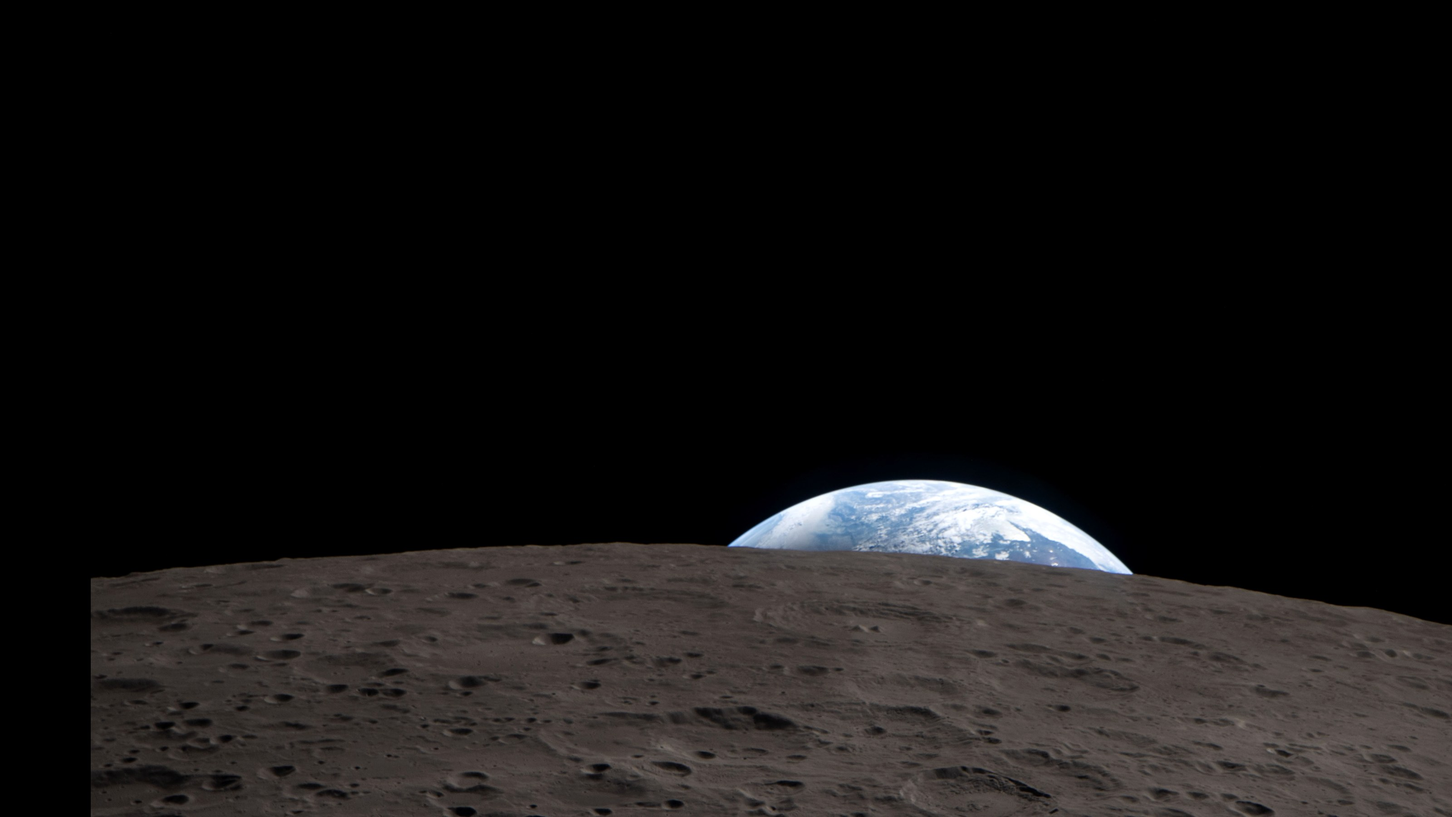
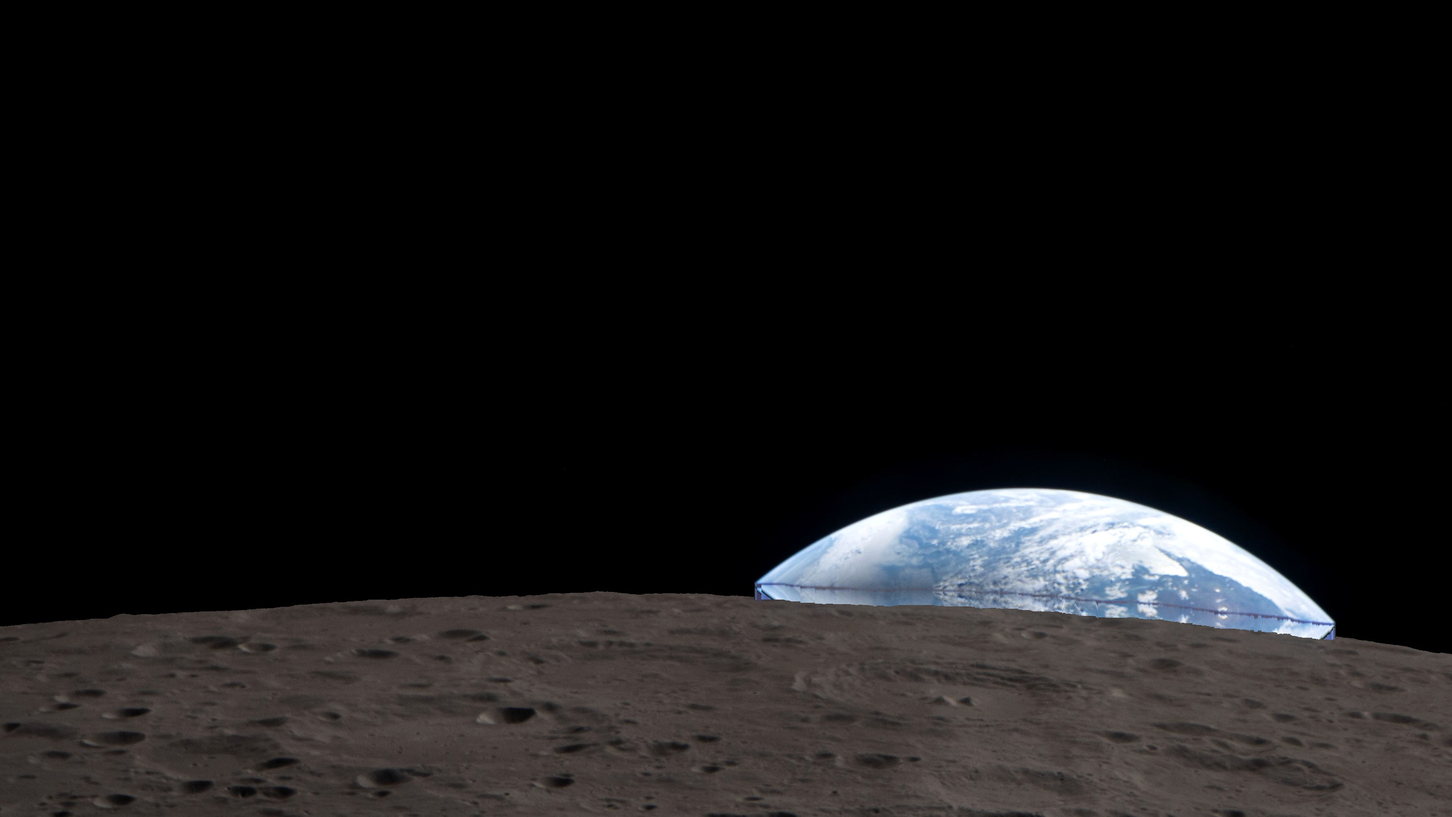
Danke-Folie vave: Erde steht, nur der Mond dreht sich
Das Mondmotiv ist jetzt in zwei Ebenen geteilt. Hinten liegen das All
und die Erde, davor der Mond als eigene Scheibe mit durchsichtigem
Himmel. Die Kamera zoomt und wandert mit beiden Ebenen gemeinsam, drehen
tut sich nur der Mond um seine Mitte. Weil sich der Mondrand auf sich
selbst dreht, bleibt die Erde genau dort angeschnitten, wo sie ist; die
Kraterlandschaft zieht unter ihr durch.

- tools/scene-photo.js: Option split erzeugt die Scheibenebene als WebP
  mit Alpha (links, rechts und unten größer als das Bild), trennt
  Oberfläche und Hintergrund nach Farbe und füllt den verdeckten Streifen
  unter dem Rand mit Himmel bzw. der Fortsetzung der Erde
- render-scene.mjs schreibt zusätzlich assets/scene-<name>-disc.webp
- motion.js: img.motion-disc dreht allein, die Kamera nur Zoom und Drift
- Mondausschnitt größer (Erde größer), keine Lücke mehr am linken Rand
- media.js blendet die Ebene in der Medienauswahl aus
- Smoke-Test misst die Scheibenebene und prüft, dass die Kamera nicht
  dreht und keine Bildecke frei wird (85 Prüfungen grün)

Claude-Session: https://claude.ai/code/session_017iqtmLc9Syr3MVfGX69Buf

diff --git a/motion.js b/motion.js
@@ -1,8 +1,8 @@
 /* Shared controls are available before the DOMContentLoaded editor hooks run. Defaults are deliberately lively but calm: a Ken Burns drift you notice within a few seconds, soft light spots and dust that just register, grain, and a slow light sweep (shine) across the motif. */
 window.VibeMotionSettings={
- tuned:{network:{movement:72,rotation:60,dof:32,dust:36,shine:26},dawn:{movement:76,rotation:13,dof:30,dust:14,shine:40},sun:{movement:70,dof:10,dust:10,shine:14},moon:{movement:70,rotation:80,dof:8,dust:8,shine:14},earth:{movement:68,rotation:75,dof:8,dust:6,shine:12},nightearth:{movement:70,rotation:80,dof:10,dust:10,shine:12},vault:{movement:64,rotation:85,dof:16,dust:34,shine:26},dial:{movement:64,rotation:85,dof:16,dust:16,shine:32},astrolabe:{movement:64,rotation:85,dof:16,dust:18,shine:34},sunflower:{movement:68,rotation:75,dof:22,dust:16,shine:30},manhole:{movement:66,rotation:80,dof:10,dust:10,texture:8,shine:20},blueprint:{rotation:50,waves:62,shine:30},plan:{movement:66,rotation:55,dof:14,dust:10,texture:16,shine:30},light:{movement:70,rotation:60,dof:38,dust:32,shine:44},fan:{movement:68,rotation:60,dof:20,dust:14,shine:34},track:{movement:66,rotation:65,dof:16,dust:12,shine:30},record:{movement:66,rotation:80,dof:18,dust:12,shine:42},lens:{movement:64,rotation:50,dof:26,dust:12,shine:40},arch:{movement:68,rotation:45,dof:36,dust:26,shine:44}},
+ tuned:{network:{movement:72,rotation:60,dof:32,dust:36,shine:26},dawn:{movement:76,rotation:13,dof:30,dust:14,shine:40},sun:{movement:70,dof:10,dust:10,shine:14},moon:{movement:60,rotation:90,dof:8,dust:8,shine:14},earth:{movement:68,rotation:75,dof:8,dust:6,shine:12},nightearth:{movement:70,rotation:80,dof:10,dust:10,shine:12},vault:{movement:64,rotation:85,dof:16,dust:34,shine:26},dial:{movement:64,rotation:85,dof:16,dust:16,shine:32},astrolabe:{movement:64,rotation:85,dof:16,dust:18,shine:34},sunflower:{movement:68,rotation:75,dof:22,dust:16,shine:30},manhole:{movement:66,rotation:80,dof:10,dust:10,texture:8,shine:20},blueprint:{rotation:50,waves:62,shine:30},plan:{movement:66,rotation:55,dof:14,dust:10,texture:16,shine:30},light:{movement:70,rotation:60,dof:38,dust:32,shine:44},fan:{movement:68,rotation:60,dof:20,dust:14,shine:34},track:{movement:66,rotation:65,dof:16,dust:12,shine:30},record:{movement:66,rotation:80,dof:18,dust:12,shine:42},lens:{movement:64,rotation:50,dof:26,dust:12,shine:40},arch:{movement:68,rotation:45,dof:36,dust:26,shine:44}},
  /* Centre and radius of each motif's disc or arc in frame percent (x, y) and pixels (radius), optionally the height the zoom is anchored at (percent, default 50): the camera turns the picture around this centre, so the disc itself visibly rotates. The sunrise zooms around the horizon so the hills stay in view. */
- pivots:{paper:[50,241.7,1602],wood:[50,237.1,1564],orbit:[50,238.9,1565],landscape:[50,179.9,1021],blueprint:[50,188.9,1100],dawn:[50,88.9,275,72],sun:[50,168.89,900],moon:[43.75,570.82,4537],earth:[36.25,120,560],nightearth:[52.5,469.19,3663],dial:[50,120,560],astrolabe:[50,124.44,600],sunflower:[50,155.56,760],manhole:[50,126.67,620],network:[50,173.3,960],light:[50,175.6,980],plan:[56.25,148.89,700],fan:[50,130,600],track:[50,160.6,840],vault:[50,113.33,500],record:[50,144.4,735],lens:[50,131.1,600],arch:[50,124.44,550]},
+ pivots:{paper:[50,241.7,1602],wood:[50,237.1,1564],orbit:[50,238.9,1565],landscape:[50,179.9,1021],blueprint:[50,188.9,1100],dawn:[50,88.9,275,72],sun:[50,168.89,900],moon:[42.94,791.33,6482],earth:[36.25,120,560],nightearth:[52.5,469.19,3663],dial:[50,120,560],astrolabe:[50,124.44,600],sunflower:[50,155.56,760],manhole:[50,126.67,620],network:[50,173.3,960],light:[50,175.6,980],plan:[56.25,148.89,700],fan:[50,130,600],track:[50,160.6,840],vault:[50,113.33,500],record:[50,144.4,735],lens:[50,131.1,600],arch:[50,124.44,550]},
  pivot(node){const scene=node?.dataset.scene||node?.className||'';for(const [key,value] of Object.entries(this.pivots))if(scene.split(/\s+/).includes(key))return value;return [50,50,1800]},
  defaults(node){const scene=node?.dataset.scene||node?.className||'';const base={motion:!!node?.querySelector('.motion-layer img'),cycle:18,strength:95,movement:80,rotation:70,speed:1,waves:0,dof:24,dust:18,texture:12,vividness:16,jiggle:0,shine:34};for(const [key,values] of Object.entries(this.tuned))if(scene.split(/\s+/).includes(key))Object.assign(base,values);return base},
  normalize(value){const c={...this.defaults(null),...value};for(const k of ['strength','movement','rotation','waves','dof','dust','texture','vividness','jiggle','shine'])c[k]=Math.max(0,Math.min(100,Number(c[k])||0));c.speed=Math.max(.25,Math.min(2,Number(c.speed)||1));c.cycle=Math.max(10,Math.min(180,Number(c.cycle)||18));return c},
@@ -22,17 +22,20 @@ window.addEventListener('DOMContentLoaded',()=>{
  function animate(record,el,frames,seconds,phase=0){const a=el.animate(frames,{duration:seconds*1000/record.cfg.speed,iterations:Infinity,direction:'alternate',easing:'ease-in-out',fill:'both'});a.pause();a.currentTime=record.time*1000/record.cfg.speed+phase;record.animations.push(a);return a}
  /* The media, its colour filter and the grain live inside one animated wrapper (.motion-camera). They rasterise together into a single compositor layer, so neither the saturate() filter nor the soft-light grain needs a render surface or a backdrop copy per frame; only the wrapper's transform runs on the compositor. */
  const MEDIA=':scope>img,:scope>video,:scope>.motion-camera>img,:scope>.motion-camera>video';
- function stage(record){let camera=record.layer.querySelector(':scope>.motion-camera');if(!camera){camera=document.createElement('div');camera.className='motion-camera';camera.dataset.motionCamera='';record.media.replaceWith(camera);camera.append(record.media)}return camera}
+ function stage(record){let camera=record.layer.querySelector(':scope>.motion-camera');if(!camera){camera=document.createElement('div');camera.className='motion-camera';camera.dataset.motionCamera='';record.media.replaceWith(camera);camera.append(record.media)}const disc=record.layer.querySelector(':scope>.motion-disc');if(disc)record.media.after(disc);return camera}
  function unstage(record){const camera=record.layer.querySelector(':scope>.motion-camera');if(camera)camera.replaceWith(...camera.childNodes)}
- function colour(record){const c=record.cfg,saturation=1+c.vividness/100*record.amount*.28,filter=saturation>1.005?`saturate(${saturation.toFixed(3)})`:'';record.media.style.filter=filter;if(record.wave)record.wave.canvas.style.filter=filter}
+ function colour(record){const c=record.cfg,saturation=1+c.vividness/100*record.amount*.28,filter=saturation>1.005?`saturate(${saturation.toFixed(3)})`:'';record.media.style.filter=filter;const disc=record.layer.querySelector('.motion-disc');if(disc)disc.style.filter=filter;if(record.wave)record.wave.canvas.style.filter=filter}
  /* Smallest scale that keeps the 1600 × 900 frame covered when the picture is turned by a degrees around (px, py), then scaled around (800, oy) and shifted by (tx, ty). */
  function cover(a,px,py,tx,ty,oy){const rad=-a*Math.PI/180,cs=Math.cos(rad),sn=Math.sin(rad),corners=[[0,0],[1600,0],[0,900],[1600,900]],ok=k=>corners.every(([qx,qy])=>{const ux=(qx-800-tx)/k+800-px,uy=(qy-oy-ty)/k+oy-py,x=px+ux*cs-uy*sn,y=py+ux*sn+uy*cs;return x>=-.5&&x<=1600.5&&y>=-.5&&y<=900.5});let lo=1,hi=2;if(ok(lo))return lo;for(let n=0;n<26;n++){const mid=(lo+hi)/2;if(ok(mid))hi=mid;else lo=mid}return hi}
- /* The camera turns the picture around the centre of its disc (VibeMotionSettings.pivots), so plate, wood slice, vault door, dial or planet visibly rotate; rotation sets how far the rim travels (up to 80 px, at most 6°; very large discs such as planet limbs still turn at least 1.5°), movement adds a gentle drift and zoom. Uploaded backgrounds turn around the frame centre. The zoom is recomputed for both end positions so no picture edge ever shows. */
+ /* The camera turns the picture around the centre of its disc (VibeMotionSettings.pivots), so plate, wood slice, vault door, dial or planet visibly rotate; rotation sets how far the rim travels (up to 80 px, at most 6°; very large discs such as planet limbs still turn at least 1.5°), movement adds a gentle drift and zoom. Uploaded backgrounds turn around the frame centre. The zoom is recomputed for both end positions so no picture edge ever shows.
+    Scenes with a separate disc layer (img.motion-disc, e.g. the moon in front of the Earth) keep the background still: the camera only drifts and zooms both layers together, and the disc alone turns around its centre. The disc image reaches beyond the frame (see .motion-disc in style.css), so its edges never show while it turns. */
  function camera(record,el,index){const c=record.cfg,m=c.movement/100*record.amount,r=c.rotation/100*record.amount,j=c.jiggle/100*record.amount,sign=index%2?-1:1,[pxp,pyp,radius,oyp=50]=VibeMotionSettings.pivot(record.layer.classList.contains('studio-background')?null:record.layer.closest('section')),px=pxp/100*1600,py=pyp/100*900,oy=oyp/100*900;
   el.style.transformOrigin='0 0';
   const deg=Math.min(6,Math.max(1.5*r,r*80/radius*180/Math.PI)),tx=18*m,ty=5*m,T=(x,y,k,a)=>`translate(${(800+x).toFixed(2)}px,${(oy+y).toFixed(2)}px) scale(${k.toFixed(4)}) translate(-800px,${(-oy).toFixed(1)}px) translate(${px.toFixed(1)}px,${py.toFixed(1)}px) rotate(${a.toFixed(3)}deg) translate(${(-px).toFixed(1)}px,${(-py).toFixed(1)}px)`;
-  const a0=-deg*sign,a1=deg*sign,x0=-tx*sign,x1=tx*sign,moving=m||r||j,k0=moving?cover(a0,px,py,x0,ty,oy)+.012+.03*j:1,k1=moving?Math.max(cover(a1,px,py,x1,-ty,oy)+.012+.03*j,k0+.08*m):1;
-  animate(record,el,[{transform:T(x0,ty,k0,a0)},{transform:T(x1,-ty,k1,a1)}],c.cycle/2)
+  const disc=el.querySelector(':scope>.motion-disc'),a0=-deg*sign,a1=deg*sign,b0=disc?0:a0,b1=disc?0:a1,x0=-tx*sign,x1=tx*sign,moving=m||r||j,k0=moving?cover(b0,px,py,x0,ty,oy)+.012+.03*j:1,k1=moving?Math.max(cover(b1,px,py,x1,-ty,oy)+.012+.03*j,k0+.08*m):1;
+  animate(record,el,[{transform:T(x0,ty,k0,b0)},{transform:T(x1,-ty,k1,b1)}],c.cycle/2);
+  /* Lage der Ebene aus dem CSS lesen: ausgeblendete Folien haben noch kein Layout, offsetLeft wäre dort 0 */
+  if(disc){const box=getComputedStyle(disc);disc.style.transformOrigin=`${(px-(parseFloat(box.left)||0)).toFixed(1)}px ${(py-(parseFloat(box.top)||0)).toFixed(1)}px`;animate(record,disc,[{transform:`rotate(${a0.toFixed(3)}deg)`},{transform:`rotate(${a1.toFixed(3)}deg)`}],c.cycle/2)}
  }
  function waveSurface(record){const c=record.cfg;if(record.wave||!c.waves||!record.amount)return;const canvas=document.createElement('canvas');canvas.className='motion-wave';canvas.dataset.motionRuntime='';canvas.width=1600;canvas.height=900;const gl=canvas.getContext('webgl',{alpha:true,antialias:false,premultipliedAlpha:false});if(!gl)return;
   const shader=(type,source)=>{const s=gl.createShader(type);gl.shaderSource(s,source);gl.compileShader(s);if(!gl.getShaderParameter(s,gl.COMPILE_STATUS))throw Error('Wave shader');return s};
@@ -50,7 +53,7 @@ window.addEventListener('DOMContentLoaded',()=>{
   /* Shine: a wide, soft band of light sweeps once per cycle diagonally across the motif (first sweep right after the slide appears), then rests off screen. */
   if(c.shine){const band=document.createElement('i'),o=Math.min(.6,c.shine/100*a*.55),off='translate3d(-160%,0,0) skewX(-16deg)',on='translate3d(330%,0,0) skewX(-16deg)';band.className='motion-shine';band.style.opacity='0';box.append(band);const frames=[{offset:0,transform:off,opacity:0},{offset:.16,transform:off,opacity:0},{offset:.3,opacity:o},{offset:.48,opacity:o},{offset:.6,transform:on,opacity:0},{offset:1,transform:on,opacity:0}],x=animate(record,band,frames,Math.max(12,c.cycle*.9));x.effect.updateTiming({direction:'normal',easing:'linear'});x.effect.setKeyframes(frames.map(f=>({...f,easing:'ease-in-out'})))}
  }
- function dispose(r){clearTimeout(leaving.get(r.layer));leaving.delete(r.layer);r.animations.forEach(a=>a.cancel());r.wave?.dispose();r.layer.querySelectorAll('[data-motion-runtime]').forEach(e=>e.remove());r.media.style.filter='';unstage(r)}
+ function dispose(r){clearTimeout(leaving.get(r.layer));leaving.delete(r.layer);r.animations.forEach(a=>a.cancel());r.wave?.dispose();r.layer.querySelectorAll('[data-motion-runtime]').forEach(e=>e.remove());r.media.style.filter='';const disc=r.layer.querySelector('.motion-disc');if(disc)disc.style.filter='';unstage(r)}
  function refresh(){const layers=[...root().querySelectorAll(':scope>section .motion-layer,:scope>section .studio-background')].filter(l=>l.style.display!=='none'&&l.querySelector(MEDIA));
   for(const[layer,r]of scenes)if(!layers.includes(layer)){dispose(r);scenes.delete(layer)}
   layers.forEach((layer,i)=>{const media=layer.querySelector(MEDIA),cfg=VibeMotionSettings.normalize({...VibeMotionSettings.defaults(layer.closest('section')),...JSON.parse(layer.dataset.motionSettings||'{}')}),key=JSON.stringify(cfg),old=scenes.get(layer);if(old?.key===key&&old.media===media)return;const time=old?.time??3;let r;if(old?.media===media){r=old;r.animations.forEach(a=>a.cancel());r.animations=[];r.layer.querySelectorAll('.motion-atmosphere,.motion-grain').forEach(e=>e.remove());r.media.style.filter='';Object.assign(r.cfg,cfg);r.key=key;r.amount=cfg.motion?cfg.strength/100:0;if(r.wave&&(!cfg.waves||!r.amount)){r.wave.dispose();r.wave.canvas.remove();r.wave=null}}else{old&&dispose(old);r={layer,media,cfg,key,time,amount:cfg.motion?cfg.strength/100:0,animations:[]}}scenes.set(layer,r);if(r.amount){camera(r,stage(r),i);waveSurface(r);colour(r);atmosphere(r);if(cfg.jiggle){const j=cfg.jiggle/100*r.amount,frames=Array.from({length:41},(_,n)=>{const t=n/40*Math.PI*2,x=Math.sin(t*3)*.64+Math.sin(t*7+.7)*.23+Math.sin(t*11)*.13,y=Math.cos(t*2+.4)*.68+Math.sin(t*5)*.32,angle=Math.sin(t*4+.5)*.65+Math.sin(t*9)*.35;return{transform:`translate3d(${x*j*17}px,${y*j*11}px,0) rotate(${angle*j*.7}deg) scale(${1+.035*j})`}});const a=animate(r,layer,frames,24);a.effect.updateTiming({direction:'normal',easing:'linear'});a.effect.setKeyframes(frames.map(f=>({...f,easing:'ease-in-out'})))}}

diff --git a/tools/scene-photo.js b/tools/scene-photo.js
@@ -12,7 +12,13 @@
    squash  Entzerrung schräg fotografierter Scheiben {x,y}: Faktoren entlang der Vorlagenachsen, damit die Ellipse wieder ein Kreis wird (circle.r ist dann der Radius entlang x)
    shadow  weicher Schatten unter einer freigestellten Scheibe {alpha, blur, dy, size}
    before/after  eigene Zeichenschritte vor bzw. nach dem Foto: (ctx, {C,R,u,W,H})
-   Ausgabe: window.sceneDataURL und window.scenePivot = [x %, y %, Radius] für motion.js (VibeMotionSettings.pivots). */
+   split   die Scheibe als eigene Ebene, die sich allein dreht (z. B. der Mond vor der stehenden Erde) {margin, bottom, band, search, behind}:
+           Ebene mit durchsichtigem Himmel, links, rechts und unten um margin/bottom Folienpixel größer als das Bild, damit beim Drehen
+           keine Kante sichtbar wird; als Oberfläche zählt, was weder dunkel (Himmel) noch bläulich oder sehr hell ist (Erde, Wolken).
+           Im Hintergrund wird ein Band von band Folienpixeln unter dem Scheibenrand mit Himmel gefüllt, innerhalb des Kreises behind
+           {x,y,r} (Folienpixel, etwa die Erde) mit deren Fortsetzung, damit die drehende Scheibe nirgends Stehendes freilegt
+   Ausgabe: window.sceneDataURL und window.scenePivot = [x %, y %, Radius] für motion.js (VibeMotionSettings.pivots),
+            mit split zusätzlich window.sceneLayerDataURL (WebP mit Alpha) und window.sceneLayer (Lage der Ebene in Folienpixeln). */
 (async()=>{
  const P=window.PHOTO,params=new URLSearchParams(location.search),scale=+params.get('scale')||2,quality=+params.get('q')||.88,seed=+params.get('seed')||7;
  const W=1600*scale,H=900*scale,u=scale,canvas=document.getElementById('c');canvas.width=W;canvas.height=H;const ctx=canvas.getContext('2d');
@@ -23,19 +29,38 @@
  if(P.stars){let a=seed>>>0;const rnd=()=>{a|=0;a=a+0x6D2B79F5|0;let t=Math.imul(a^a>>>15,1|a);t=t+Math.imul(t^t>>>7,61|t)^t;return((t^t>>>14)>>>0)/4294967296};for(let i=0;i<P.stars;i++){const x=rnd()*W,y=rnd()*H,r=(rnd()<.92?.4+rnd()*.5:.9+rnd()*.6)*u,b=(rnd()<.88?.12+rnd()*.22:.4+rnd()*.35)*(P.starGain||1);ctx.fillStyle=`rgba(${230+rnd()*25|0},${230+rnd()*25|0},255,${b})`;ctx.beginPath();ctx.arc(x,y,r,0,Math.PI*2);ctx.fill()}}
  if(P.before)P.before(ctx,{C,R,u,W,H});
  if(P.shadow){const sh=P.shadow;ctx.save();ctx.filter=`blur(${(sh.blur||30)*u}px)`;ctx.fillStyle=`rgba(0,0,0,${sh.alpha??.5})`;ctx.beginPath();ctx.arc(C.x*u,(C.y+(sh.dy||0))*u,R*(sh.size||1)*u,0,Math.PI*2);ctx.fill();ctx.restore()}
- ctx.save();if(P.clip){ctx.beginPath();ctx.arc(C.x*u,C.y*u,R*P.clip*u,0,Math.PI*2);ctx.clip()}
- ctx.translate(C.x*u,C.y*u);ctx.rotate((P.turn||0)*Math.PI/180);ctx.scale(P.scale*u*(P.squash?.x||1),P.scale*u*(P.squash?.y||1));if(P.grade)ctx.filter=P.grade;
  /* weicher Rand der Vorlage, damit ergänzter Himmel und Foto ohne Kante ineinander übergehen */
  const feather=P.feather||0;let source=img;if(feather||P.levels){const off=document.createElement('canvas');off.width=img.naturalWidth;off.height=img.naturalHeight;const o=off.getContext('2d');o.drawImage(img,0,0);
   if(P.levels){const {black:b,white:w,gamma=1}=P.levels,lut=[0,1,2].map(ch=>Uint8ClampedArray.from({length:256},(_,v)=>255*Math.pow(Math.min(1,Math.max(0,(v-b[ch])/(w[ch]-b[ch]))),1/gamma))),id=o.getImageData(0,0,off.width,off.height),d=id.data;for(let k=0;k<d.length;k+=4){d[k]=lut[0][d[k]];d[k+1]=lut[1][d[k+1]];d[k+2]=lut[2][d[k+2]]}o.putImageData(id,0,0)}
   /* destination-out nimmt nur dort Deckkraft weg, wo gezeichnet wird: Streifen an den vier Kanten, außen voll, nach innen auslaufend */
   if(feather){o.globalCompositeOperation='destination-out';const f=feather,w=off.width,h=off.height,edge=(x0,y0,x1,y1,rx,ry,rw,rh)=>{const g=o.createLinearGradient(x0,y0,x1,y1);g.addColorStop(0,'#000');g.addColorStop(1,'rgba(0,0,0,0)');o.fillStyle=g;o.fillRect(rx,ry,rw,rh)};edge(0,0,0,f,0,0,w,f);edge(0,h,0,h-f,0,h-f,w,f);edge(0,0,f,0,0,0,f,h);edge(w,0,w-f,0,w-f,0,f,h)}
   source=off}
- ctx.drawImage(source,-P.circle.x,-P.circle.y);
- ctx.restore();
+ /* Foto an seinen Platz zeichnen; ox/oy verschieben alles, etwa für die größere Scheibenebene */
+ const paint=(g,ox=0,oy=0)=>{g.save();if(P.clip){g.beginPath();g.arc((C.x+ox)*u,(C.y+oy)*u,R*P.clip*u,0,Math.PI*2);g.clip()}g.translate((C.x+ox)*u,(C.y+oy)*u);g.rotate((P.turn||0)*Math.PI/180);g.scale(P.scale*u*(P.squash?.x||1),P.scale*u*(P.squash?.y||1));if(P.grade)g.filter=P.grade;g.drawImage(source,-P.circle.x,-P.circle.y);g.restore()};
+ paint(ctx);
  if(P.vignette){const g=ctx.createRadialGradient(C.x*u,C.y*u,R*u,C.x*u,C.y*u,R*P.vignette*u);g.addColorStop(0,'rgba(0,0,0,0)');g.addColorStop(1,P.fill||'#000');ctx.fillStyle=g;ctx.beginPath();ctx.rect(0,0,W,H);ctx.arc(C.x*u,C.y*u,R*u,0,Math.PI*2,true);ctx.fill()}
  if(P.after)P.after(ctx,{C,R,u,W,H});
  if(P.grain){let a=(seed*7919)>>>0;const rnd=()=>{a|=0;a=a+0x6D2B79F5|0;let t=Math.imul(a^a>>>15,1|a);t=t+Math.imul(t^t>>>7,61|t)^t;return((t^t>>>14)>>>0)/4294967296},id=ctx.getImageData(0,0,W,H),d=id.data;for(let k=0;k<d.length;k+=4){const v=(rnd()-.5)*P.grain;d[k]+=v;d[k+1]+=v;d[k+2]+=v}ctx.putImageData(id,0,0)}
+ if(P.split){const sp=P.split,m=sp.margin??160,mb=sp.bottom??100,band=Math.round((sp.band??10)*u),search=sp.search??14,DW=W+2*m*u,DH=H+mb*u,layer=document.createElement('canvas');layer.width=DW;layer.height=DH;const g=layer.getContext('2d');paint(g,m,0);
+  const L=g.getImageData(0,0,DW,DH),ld=L.data,B=ctx.getImageData(0,0,W,H),bd=B.data,lum=(d,k)=>.3*d[k]+.59*d[k+1]+.11*d[k+2];
+  /* Oberfläche der Scheibe: weder Himmel (dunkel) noch Erde (blau oder sehr hell) */
+  const surface=(d,k)=>{const l=lum(d,k);return l>(sp.sky??16)&&l<(sp.bright??170)&&d[k+2]<=d[k]+(sp.blue??2)},behind=sp.behind,inside=(x,y)=>behind&&Math.hypot(x-behind.x,y-behind.y)<behind.r;
+  for(let X=0;X<DW;X++){const dx=X/u-m-C.x;let limb=DH;
+   if(Math.abs(dx)<R){const yc=C.y-Math.sqrt(R*R-dx*dx),top=Math.max(0,Math.floor((yc-search)*u)),end=Math.min(DH-3,Math.ceil((yc+search)*u));limb=Math.round(yc*u);
+    /* oberstes Pixel der Spalte, ab dem drei Pixel in Folge zur Oberfläche gehören: der tatsächliche Rand mit seinen Bergen */
+    for(let Y=top;Y<end;Y++)if(surface(ld,(Y*DW+X)*4)&&surface(ld,((Y+1)*DW+X)*4)&&surface(ld,((Y+2)*DW+X)*4)){limb=Y;break}}
+   /* Randpixel halb deckend, in der Farbe der Oberfläche direkt darunter (ohne Schimmer des Hintergrunds) */
+   /* durchsichtige Pixel bekommen ebenfalls die Oberflächenfarbe, sonst mischt die Farbunterabtastung von WebP Blau in den Rand */
+   if(limb<DH-1){const kb=((limb+1)*DW+X)*4;for(let Y=0;Y<=limb;Y++){const k=(Y*DW+X)*4;ld[k]=ld[kb];ld[k+1]=ld[kb+1];ld[k+2]=ld[kb+2];ld[k+3]=Y<limb?0:170}}else for(let Y=0;Y<DH;Y++)ld[(Y*DW+X)*4+3]=0;
+   /* Hintergrund: Band unter dem Rand mit Himmel oder der gespiegelten Erde füllen, damit die drehende Scheibe dort nichts Stehendes freilegt */
+   const Xb=X-m*u;if(Xb<0||Xb>=W||limb>=H)continue;
+   /* Farbe der Fortsetzung: gespiegelt über den Rand, sonst das nächste Pixel darüber, das sicher zum Hintergrundkörper gehört */
+   /* nur eindeutige Pixel des Hintergrundkörpers (deutlich bläulich oder hell), die gemischten Randpixel direkt über dem Rand überspringen */
+   const x=Xb/u,edge=3,clear=k=>{const l=lum(bd,k);return l>(sp.sky??16)&&(bd[k+2]>bd[k]+8||l>150)},pick=Y=>{for(const ys of [Y>=limb?2*limb-Y-2*edge:-1,...Array.from({length:30},(_,n)=>limb-edge-1-n)]){if(ys<0)continue;const ks=(ys*W+Xb)*4;if(clear(ks))return ks}return -1};
+   /* auch die gemischten Zeilen direkt über dem Rand ersetzen, sonst blitzen sie beim Drehen als feine Linie auf */
+   for(let Y=Math.max(0,limb-edge);Y<Math.min(H,limb+band);Y++){const k=(Y*W+Xb)*4,ks=inside(x,Y/u)?pick(Y):-1;bd[k]=ks<0?0:bd[ks];bd[k+1]=ks<0?0:bd[ks+1];bd[k+2]=ks<0?0:bd[ks+2]}}
+  g.putImageData(L,0,0);ctx.putImageData(B,0,0);
+  window.sceneLayerDataURL=layer.toDataURL('image/webp',sp.quality??.86);window.sceneLayer={left:-m,top:0,width:1600+2*m,height:900+mb}}
  window.scenePivot=[+(C.x/16).toFixed(2),+(C.y/9).toFixed(2),Math.round(R)];
  window.sceneDataURL=canvas.toDataURL('image/jpeg',quality);window.rendered=true;
 })();

diff --git a/media.js b/media.js
@@ -3,7 +3,7 @@ window.addEventListener('DOMContentLoaded',()=>{
  const E=DeckEditor,$=s=>document.querySelector(s),builtins=[];
  const state=()=>E.state();state().assets||=[];
  const readable={'scene-paper.jpg':'Keramik · Tellerrand','scene-wood.jpg':'Holz · Jahresringe','scene-blueprint.jpg':'Wasserringe','scene-landscape.jpg':'Pflanzenquerschnitt','scene-orbit.jpg':'Planetenkante','scene-network.jpg':'Netzknoten · Kreisbogen','scene-dawn.jpg':'Morgenlicht · Horizont','scene-sun.jpg':'Sonne · Korona','scene-moon.jpg':'Mond · Erde am Horizont','scene-earth.jpg':'Erde · Tagseite','scene-nightearth.jpg':'Erde bei Nacht','scene-vault.jpg':'Tresortür','scene-dial.jpg':'Wählscheibe','scene-astrolabe.jpg':'Astrolabium','scene-sunflower.jpg':'Sonnenblume','scene-manhole.jpg':'Kanaldeckel'};
- document.querySelectorAll('.slides>section img,.slides>section video').forEach((el,i)=>{const src=el.getAttribute('src');if(!src||builtins.some(a=>a.src===src))return;const filename=el.dataset.fileName||src.split('/').pop().split('?')[0];builtins.push({id:'builtin-'+builtins.length,name:filename.startsWith('data:')?'Motiv '+(i+1):filename,label:readable[filename]||filename,kind:el.tagName==='VIDEO'?'video':'image',src,width:el.naturalWidth||1600,height:el.naturalHeight||900,size:src.startsWith('data:')?Math.round(src.length*.75):0,builtin:true})});
+ document.querySelectorAll('.slides>section img:not(.motion-disc),.slides>section video').forEach((el,i)=>{const src=el.getAttribute('src');if(!src||builtins.some(a=>a.src===src))return;const filename=el.dataset.fileName||src.split('/').pop().split('?')[0];builtins.push({id:'builtin-'+builtins.length,name:filename.startsWith('data:')?'Motiv '+(i+1):filename,label:readable[filename]||filename,kind:el.tagName==='VIDEO'?'video':'image',src,width:el.naturalWidth||1600,height:el.naturalHeight||900,size:src.startsWith('data:')?Math.round(src.length*.75):0,builtin:true})});
  function logoSources(){return [state().logo,...Object.values(state().slideLogos||{})].filter(l=>l?.src)}
  function isLogo(a){return !!a.logo||logoSources().some(l=>l.src===a.src)}
  function all(){const list=[...builtins,...(state().assets||[])];for(const logo of logoSources()){const existing=list.find(a=>a.src===logo.src);if(existing){existing.logo=true;continue}const a={id:'asset-'+crypto.randomUUID(),name:logo.name||'Eigenes Logo.png',label:logo.name||'Eigenes Logo',kind:'image',logo:true,src:logo.src,size:Math.round(logo.src.length*.75)};state().assets.push(a);list.push(a)}return list}

diff --git a/decks/vave/slides.html b/decks/vave/slides.html
@@ -68,4 +68,4 @@
 <section class="content ink statement-slide prs-slide" data-fig-top="596" data-fig-prs="20" data-name="Diese Folien" data-duration="60000"><div class="eyebrow">09 / zum schluss</div><h2>Diese Folien sind genau so entstanden.</h2><p class="story-copy statement-sub">Ein Repo, rund zwanzig Pull Requests, ein Wochenende. Beschrieben, geprüft, freigegeben.</p>
  <div class="foot"><p class="story-copy">Was baut ihr als Erstes?</p><p class="endnote">github.com/hannespix/vibestudio</p></div><aside class="notes">1 Minute. Die Auflösung: Diese Präsentation ist selbst ein Vibecoding-Projekt. Ein Repo, rund zwanzig Pull Requests, von Freitagabend bis Sonntag: Editor im Browser, Übergänge, Animationen, die Kapitelmotive, dieser Vortrag. Alles beschrieben, geprüft, freigegeben, jede Änderung nachvollziehbar. Wer mag, öffnet das Repo und liest die Historie. Und dann die Frage an euch: Was baut ihr als Erstes? Überleitung in die Fragerunde.</aside></section>
 
-<section class="chapter moon" data-scene="moon" data-name="Danke · Fragen" data-duration="7000"><div class="motion-layer" aria-hidden="true"><img class="motion-image" src="assets/scene-moon.jpg" alt=""></div><div class="chapter-title"><h1>Danke</h1><p>fragen · ideen · nächste schritte</p></div><div class="signature">Hannes Pix <span>Folien: hannespix.github.io/vibestudio/vave</span></div><aside class="notes">Fragerunde. Die Folienadresse steht auf der Folie. Einstiegsfrage, falls es still bleibt: Was baut ihr als Erstes? Welche Tabelle, welche Routine, welches kleine Werkzeug fehlt euch am meisten? Das Motiv, der Mondrand mit der Erde dahinter, steht für die nächsten Schritte.</aside></section>
+<section class="chapter moon" data-scene="moon" data-name="Danke · Fragen" data-duration="7000"><div class="motion-layer" aria-hidden="true"><img class="motion-image" src="assets/scene-moon.jpg" alt=""><img class="motion-disc" src="assets/scene-moon-disc.webp" alt=""></div><div class="chapter-title"><h1>Danke</h1><p>fragen · ideen · nächste schritte</p></div><div class="signature">Hannes Pix <span>Folien: hannespix.github.io/vibestudio/vave</span></div><aside class="notes">Fragerunde. Die Folienadresse steht auf der Folie. Einstiegsfrage, falls es still bleibt: Was baut ihr als Erstes? Welche Tabelle, welche Routine, welches kleine Werkzeug fehlt euch am meisten? Das Motiv, der Mondrand mit der Erde dahinter, steht für die nächsten Schritte: Die Erde steht still, nur der Mond dreht sich.</aside></section>

diff --git a/style.css b/style.css
@@ -23,7 +23,9 @@ html,body.reveal-viewport{background-color:var(--stage,#000)}html.stage-ready,ht
 
 .motion-video{position:absolute;inset:0;width:100%;height:100%;object-fit:cover;opacity:0;transition:opacity .4s;pointer-events:none}.motion-video.ready{opacity:1}
 
-.motion-layer{overflow:hidden;pointer-events:none}.motion-image{position:absolute;inset:0;width:1600px;height:900px;object-fit:cover;transform-origin:50% 78%;pointer-events:none}.wood{color:#33291e;background:#e9dfcc}
+.motion-layer{overflow:hidden;pointer-events:none}.motion-image{position:absolute;inset:0;width:1600px;height:900px;object-fit:cover;transform-origin:50% 78%;pointer-events:none}
+/* Eigene Scheibenebene (z. B. der Mond vor der stehenden Erde): größer als das Bild, Maße aus tools/render-scene.mjs, damit beim Drehen keine Kante sichtbar wird */
+.motion-disc{position:absolute;left:-165px;top:0;width:1930px;height:1000px;pointer-events:none}.wood{color:#33291e;background:#e9dfcc}
 .tools-pair{display:grid;grid-template-columns:1fr 1fr;gap:86px;margin-top:60px}.tool-item{position:relative;padding-left:78px}.tool-number{position:absolute;left:0;top:6px;font-size:20px;color:#a36649;border:1px solid #b8977d;border-radius:50%;width:48px;height:48px;display:flex;align-items:center;justify-content:center}.reveal .tools-intro h3{font-size:46px;letter-spacing:-1.5px;font-weight:500;margin:0 0 8px}.reveal .tool-role{font-size:27px;margin-bottom:17px}.reveal .tool-detail{font-size:27px;line-height:1.45;color:#6f675b}.git-label{display:flex;gap:24px;align-items:baseline;margin-top:65px;border-top:1px solid #bfb4a3;padding-top:25px}.git-label b{font-size:33px;font-weight:500}.git-label span{font-size:27px;color:#6f665a}.git-benefits{display:grid;grid-template-columns:repeat(4,1fr);gap:30px;margin-top:30px}.benefit-mark{display:block;font-size:34px;color:#986f51;height:50px;letter-spacing:0}.reveal .git-benefits h4{font-size:25px;font-weight:500;letter-spacing:-.6px;margin:8px 0 9px}.reveal .git-benefits p{font-size:25px;line-height:1.4;color:#766d5f}
 
 .benefit-mark svg{width:72px;height:42px;overflow:visible}.benefit-mark svg path{fill:none;stroke:currentColor;stroke-width:2.5;stroke-linecap:round;stroke-linejoin:round}.benefit-mark svg circle{fill:#eee8df;stroke:currentColor;stroke-width:2.5}

diff --git a/tools/scene-moon.html b/tools/scene-moon.html
@@ -2,11 +2,14 @@
 <meta charset="utf-8">
 <title>Motiv: Mondrand mit Erde</title>
 <meta name="scene-source" content="https://images-assets.nasa.gov/image/art002e021278/art002e021278~orig.jpg">
-<!-- Kapitelmotiv „Mond“: Kraterlandschaft am Mondrand, dahinter die Erde halb verdeckt am Mondhorizont. Bearbeitung: Ausschnitt, leichte Farbkorrektur. Rendern: node tools/render-scene.mjs moon -->
+<!-- Kapitelmotiv „Mond“: Kraterlandschaft am Mondrand, dahinter die Erde halb verdeckt am Mondhorizont. Bearbeitung: Ausschnitt, leichte Farbkorrektur, in zwei Ebenen geteilt: der Mond als eigene Scheibe (assets/scene-moon-disc.webp), die sich allein dreht, dahinter das All mit der stehenden Erde (assets/scene-moon.jpg). Rendern: node tools/render-scene.mjs moon -->
 <style>html,body{margin:0;background:#000}canvas{display:block;max-width:100vw;height:auto}</style>
 <canvas id="c"></canvas>
 <script>
 /* Mondrand am Original vermessen (Kreis durch den Horizont links und rechts der Erde): Mittelpunkt 1714/14943, Radius 12964 px */
-window.PHOTO={circle:{x:1714,y:14943,r:12964},scale:.35,apex:{x:700,y:600},turn:0,fill:'#000',grade:'contrast(1.05) brightness(1.03)'};
+window.PHOTO={circle:{x:1714,y:14943,r:12964},scale:.5,apex:{x:687,y:640},turn:0,fill:'#000',grade:'contrast(1.05) brightness(1.03)',
+ /* Mond als eigene Ebene: 165 px Rand links und rechts, 100 px unten, damit bis etwa 1,3° Drehung keine Kante sichtbar wird */
+ /* Erde hinter dem Mondrand: im Original Mittelpunkt 2595,6/2716,3, Radius 942,2 px (Oberkante vermessen), hier in Folienpixeln mit 3 px Zugabe für den Lichtsaum */
+ split:{margin:165,bottom:100,band:16,behind:{x:1127.8,y:1008.6,r:474}}};
 </script>
 <script src="scene-photo.js"></script>

diff --git a/README.md b/README.md
@@ -25,7 +25,7 @@ Reveal.js-Vorträge von Hannes Pix und der zugehörige Browser-Editor **Vibe Stu
 | `assets/` | Reveal.js, DM Sans, Motive und Screenshots |
 | `build.mjs` | Baut je Vortrag die Entwicklerfassung `decks/<kurzname>/index.html` (nicht eingecheckt) und die Ein-Datei-Fassung `dist/<kurzname>/index.html`, dazu die Übersicht |
 | `tools/smoke-test.mjs` | Headless-Prüfung in Chromium (Playwright) |
-| `tools/scene-*.html`, `tools/scene-photo.js`, `tools/render-scene.mjs` | Vorlagen und Renderer für die Kapitelmotive: leicht bearbeitete Fotos über `tools/scene-photo.js` (Sonne, Mond, Erde, Erde bei Nacht, Tresortür, Wählscheibe, Astrolabium, Sonnenblume, Kanaldeckel) und prozedurale Grafiken (Netzknoten, Morgenlicht sowie die früheren Motive Planstand, Lichtbogen, Materialfächer, Laufbahn, Schallplatte, Lupe, Torbogen); Aufruf `node tools/render-scene.mjs sun`, mit `SCENE_CACHE=<ordner>` werden geladene Fotovorlagen zwischengespeichert |
+| `tools/scene-*.html`, `tools/scene-photo.js`, `tools/render-scene.mjs` | Vorlagen und Renderer für die Kapitelmotive: leicht bearbeitete Fotos über `tools/scene-photo.js` (Sonne, Mond, Erde, Erde bei Nacht, Tresortür, Wählscheibe, Astrolabium, Sonnenblume, Kanaldeckel) und prozedurale Grafiken (Netzknoten, Morgenlicht sowie die früheren Motive Planstand, Lichtbogen, Materialfächer, Laufbahn, Schallplatte, Lupe, Torbogen); Aufruf `node tools/render-scene.mjs sun`, mit `SCENE_CACHE=<ordner>` werden geladene Fotovorlagen zwischengespeichert; mit `split` in der Szenendatei entsteht zusätzlich eine Scheibenebene `assets/scene-<name>-disc.webp` (WebP mit Alpha) |
 | `.github/workflows/` | `ci.yml` prüft Pull Requests, `pages.yml` veröffentlicht `main` auf GitHub Pages |
 | `demo/pflanzenlernen.html` | Kleines zusätzliches Übungsbeispiel, nicht Teil des Decks |
 | `QUELLEN.md` | Quellen und Bildnachweise |
@@ -131,7 +131,7 @@ Unter **Gilt für** lässt sich wie beim Logo wählen, ob die Bewegungswerte **n
 
 - **Hintergrundeffekte aktiv** schaltet die erzeugten Effekte ein oder aus. Ein Video behält seine eigene Bewegung.
 - **Effektstärke gesamt** dosiert Kamera, Rotation, Jiggle, Wellen, Licht, Staub, Körnung und Farbverstärkung gemeinsam. 0 ergibt einen unveränderten Hintergrund; native Videos laufen weiter.
-- **Bewegungsstärke / Ken Burns** steuert Zoom und Kamerafahrt. **Rotation** dreht das Bild um die Mitte seiner Scheibe, also um Teller, Holzscheibe, Schallplatte, Laufbahn, Bogen oder Sonne. Bei 100 wandert der Scheibenrand bis zu 80 px weit, höchstens aber 6°; sehr große Scheiben wie Planetenränder drehen sich mindestens 1,5°. In der Grundeinstellung dreht jedes Motiv um etwa ±2° bis ±5°. Den Zoom berechnet die Kamerafahrt für jede Stellung so, dass nie eine Bildkante sichtbar wird. Eigene Hintergründe drehen sich um die Bildmitte.
+- **Bewegungsstärke / Ken Burns** steuert Zoom und Kamerafahrt. **Rotation** dreht das Bild um die Mitte seiner Scheibe, also um Teller, Holzscheibe, Schallplatte, Laufbahn, Bogen oder Sonne. Bei 100 wandert der Scheibenrand bis zu 80 px weit, höchstens aber 6°; sehr große Scheiben wie Planetenränder drehen sich mindestens 1,5°. Hat ein Motiv eine eigene Scheibenebene (`img.motion-disc`, etwa der Mond auf der Danke-Folie von vave), dreht sich nur diese: Die Erde im Hintergrund steht still, beide Ebenen zoomen und wandern gemeinsam. In der Grundeinstellung dreht jedes Motiv um etwa ±2° bis ±5°. Den Zoom berechnet die Kamerafahrt für jede Stellung so, dass nie eine Bildkante sichtbar wird. Eigene Hintergründe drehen sich um die Bildmitte.
 - **Geschwindigkeit** reicht von 0,25× bis 2×. Sie steuert erzeugte Bewegungen und die Wiedergabegeschwindigkeit von Hintergrundvideos.
 - **Handycam / Jiggle** ergänzt weiche, leicht unregelmäßige Kamerabewegungen. 0 = aus; geringe Werte wirken ruhig und handgeführt. Es gibt keine zufälligen Sprünge zwischen Bildern.
 - **Wellenbewegung** verformt den unteren Bildbereich fließend. Das passt besonders gut zu den Wasserringen; bei anderen Motiven nach Geschmack nutzen. Der Effekt benötigt WebGL; ohne WebGL bleibt das Bild mit den übrigen Effekten sichtbar.
